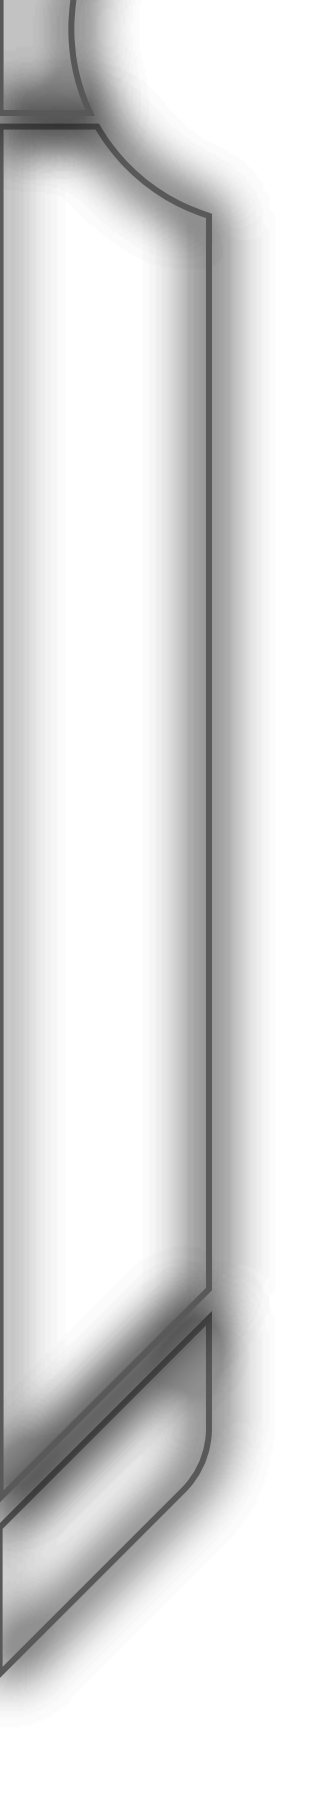
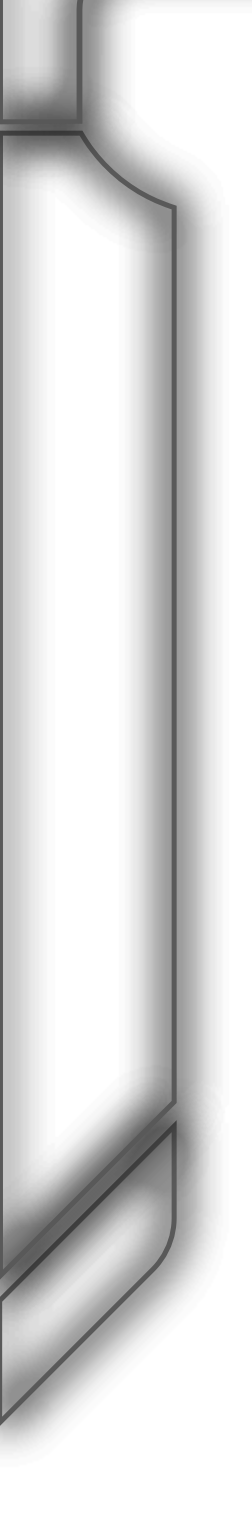
Updated layout to better take advantage of the wide screen real estate.

Changed region(s): [[0.0, 0.0, 0.8333, 0.9498]]

diff --git a/src/components/views/EngineControl/index.js b/src/components/views/EngineControl/index.js
@@ -65,8 +65,13 @@ class EngineControl extends Component {
 			});
 		}
 	}
-	speedBarStyle(array,speed){
+	speedBarStyle(array,speed, engineCount, index){
 		let width = speed / array.length * 100;
+		if (engineCount - 1 === index){
+			return ({
+				width: `calc(${width}%)`
+			})
+		}
 		return ({
 			width: `calc(${width}% - ${40/array.length * speed}px)`
 		})
@@ -101,7 +106,7 @@ class EngineControl extends Component {
 								);
 						})}
 						</ul>
-						<div className="speedBar" style={this.speedBarStyle(engine.speeds,engine.speed)}></div>
+						<div className="speedBar" style={this.speedBarStyle(engine.speeds,engine.speed, engines.length, index)}></div>
 						</div>
 						);
 				});
@@ -129,10 +134,10 @@ class EngineControl extends Component {
 						</Col>
 						<Col>
 						<Col>
-						<HeatBar label="Heat" background="linear-gradient(to bottom, #440000 0%,#ff0000 50%,#440000 100%)" level={engines[0].heat}/>
+						<HeatBar label="Heat" background="linear-gradient(to bottom, #440000 0%,#AA0000 50%,#440000 100%)" level={engines[0].heat}/>
 						</Col>
 						<Col>
-						<HeatBar label="Coolant" background="linear-gradient(to bottom, #004400 0%,#00ff00 50%,#004400 100%)" level={engines[0].coolant}/>
+						<HeatBar label="Coolant" background="linear-gradient(to bottom, #004400 0%,#00AA00 50%,#004400 100%)" level={engines[0].coolant}/>
 						</Col>
 						</Col>
 						<Col>
@@ -156,10 +161,10 @@ class EngineControl extends Component {
 						<Col sm={2}>
 						<Row>
 						<Col sm={6}>
-						<HeatBar label="Heat" background="linear-gradient(to bottom, #440000 0%,#ff0000 50%,#440000 100%)" level={engines[0].heat}/>
+						<HeatBar label="Heat" background="linear-gradient(to bottom, #440000 0%,#aa0000 50%,#440000 100%)" level={engines[0].heat}/>
 						</Col>
 						<Col sm={6}>
-						<HeatBar label="Coolant" background="linear-gradient(to bottom, #004400 0%,#00ff00 50%,#004400 100%)" level={engines[0].coolant}/>
+						<HeatBar label="Coolant" background="linear-gradient(to bottom, #004400 0%,#00aa00 50%,#004400 100%)" level={engines[0].coolant}/>
 						</Col>
 						</Row>
 						</Col>
@@ -169,10 +174,10 @@ class EngineControl extends Component {
 						<Col sm={2}>
 						<Row>
 						<Col sm={6}>
-						<HeatBar label="Heat" background="linear-gradient(to bottom, #440000 0%,#ff0000 50%,#440000 100%)" level={engines[1].heat}/>
+						<HeatBar label="Heat" background="linear-gradient(to bottom, #440000 0%,#aa0000 50%,#440000 100%)" level={engines[1].heat}/>
 						</Col>
 						<Col sm={6}>
-						<HeatBar label="Coolant" background="linear-gradient(to bottom, #004400 0%,#00ff00 50%,#004400 100%)" level={engines[1].coolant}/>
+						<HeatBar label="Coolant" background="linear-gradient(to bottom, #004400 0%,#00aa00 50%,#004400 100%)" level={engines[1].coolant}/>
 						</Col>
 						</Row>
 						</Col>
@@ -226,5 +231,5 @@ export default compose(
 				variables: Object.assign(props)
 			})
 		})
-  })
-  )(EngineControl);
+	})
+	)(EngineControl);

diff --git a/src/components/layouts/LayoutCorners/layout.scss b/src/components/layouts/LayoutCorners/layout.scss
@@ -14,8 +14,8 @@ body{
 .card-container{
 	position: absolute;
 	top: 115px;
-	left: 180px;
-	width: 87vw;
+	left: 122px;
+	width: 90vw;
 	height: 84vh;
 	.transitioner{
 		overflow: visible;
@@ -476,19 +476,19 @@ body{
 		.frame-1{
 			width: 593px;
 			height: 127px;
-			background-image: url(/js/images/slice1-900.png);
+			background-image: url(/js/images/slice1.png);
 		}
 		.frame-2{
 			width: 126px;
 			height: 767px;
 			top: 127px;
-			background-image: url(/js/images/slice2-900.png);
+			background-image: url(/js/images/slice2.png);
 		}
 		.frame-3{
 			width: 533px;
 			height: 77px;
 			right: 0px;
-			background-image: url(/js/images/slice3-900.png);
+			background-image: url(/js/images/slice3.png);
 		}
 		@media (min-width: 1700px) {
 			.frame-1{
@@ -519,14 +519,14 @@ body{
 			top:0px;
 			width:52px;
 			height:227px;
-			-webkit-clip-path: polygon(0 0, 50px 0px, 50px 95px, 45px 105px, 40px 110px, 38px 118px, 36px 120px, 35px 120px, 30px 140px, 30px 165px, 38px 188px, 0px 188px);
+			-webkit-clip-path: polygon(0 0, 50px 0px, 72px 90px, 42px 120px, 39px 188px, 38px 188px, 0px 188px);
 		}
 		.part-1-2{
 			top:0px;
 			left:50px;
 			height: 130px;
 			width: 660px;
-			-webkit-clip-path: polygon(0 0, 538px 0px,  520px 35px, 517px 35px, 510px 38px, 384px 38px, 373px 50px, 367px 56px, 170px 56px, 155px 63px, 128px 105px, 116px 91px, 80px 73px, 76px 73px, 56px 72px, 28px 77px, 15px 85px, 0px 95px);
+			-webkit-clip-path: polygon(0 0, 538px 0px, 520px 35px, 517px 35px, 510px 38px, 382px 38px, 373px 50px, 367px 56px, 170px 56px, 157px 63px, 132px 99px, 123px 105px, 15px 105px, 0px 109px);
 		}
 		.part-c{
 			width: 350px;

diff --git a/src/components/views/EngineControl/style.scss b/src/components/views/EngineControl/style.scss
@@ -10,12 +10,14 @@
 		list-style: none;
 		color: white;
 		flex: 1;
+		&:not(:last-child) ul.engine{
+			margin-right: 40px;
+		}
 	}
 	ul.engine{
 		display: flex;
 		justify-content: space-around;
 		padding: 0;
-		margin-right: 40px;
 	}
 	li.speedNums{
 		list-style: none;
